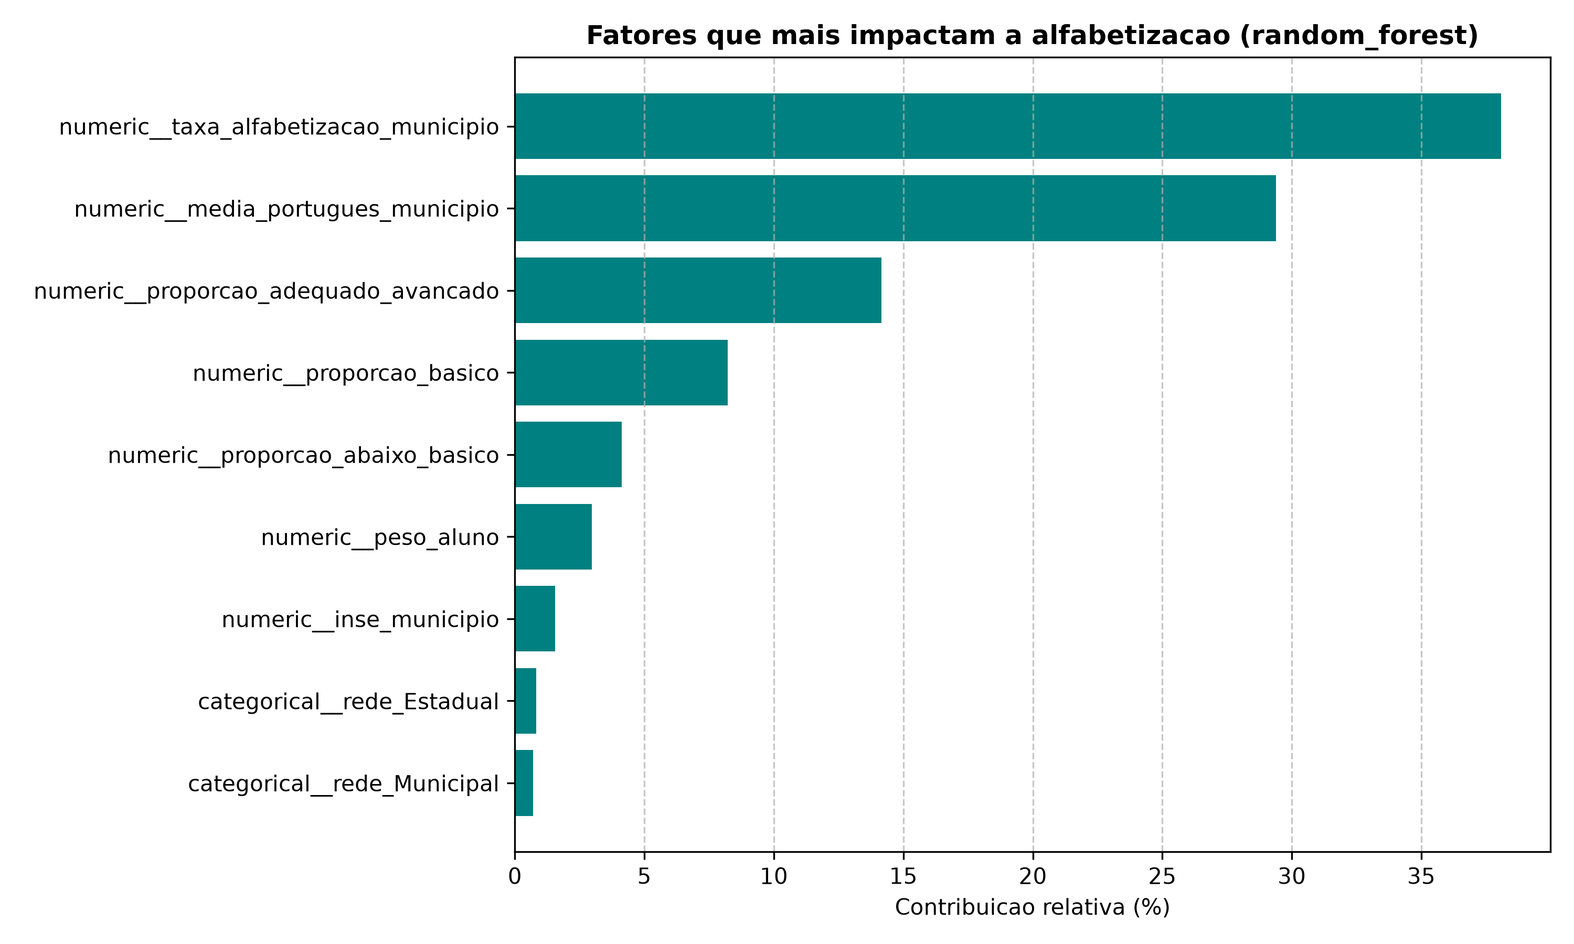
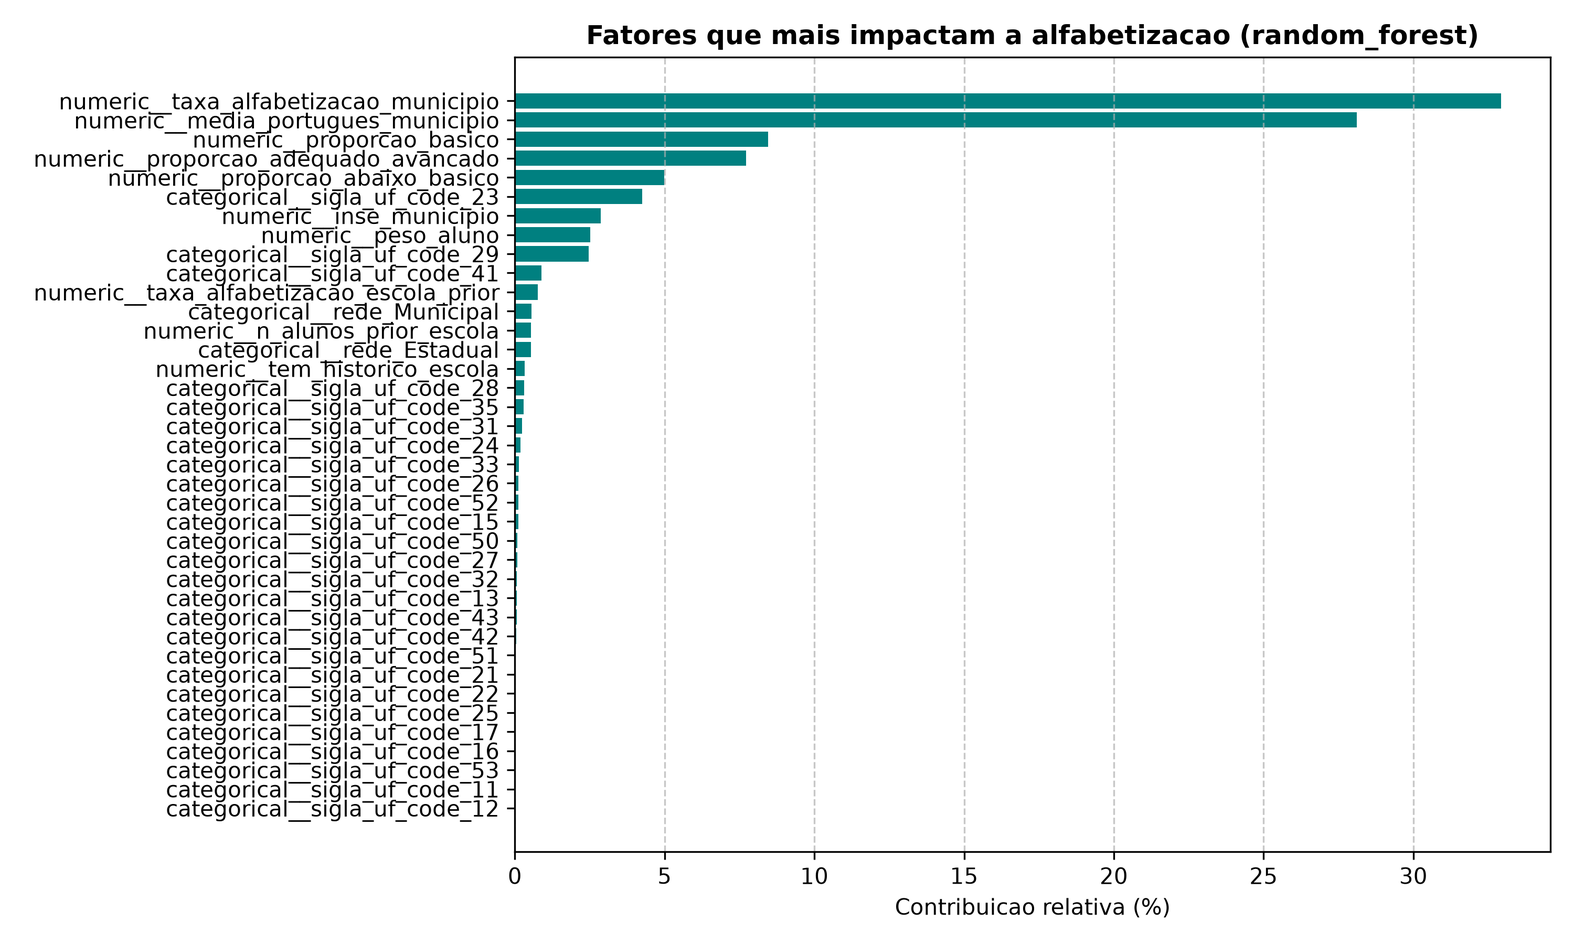
feat: add school/UF history features, fix year-blend leakage, drop undersampling
Gold: fixes a temporal leak where municipal alfabetizacao rates blended
2023+2024 into one average for every row (a 2023 row could see 2024
info); now matched to the row's own year. Adds prior-year school-level
literacy rate (from alunos_clean, never same-year/same-cohort) and a UF
code feature. Attempted school-level INSE too, but silver.alunos_clean
and silver.inse_escola_clean use non-overlapping id_escola namespaces
(confirmed 0/42802 matches after normalization) -- documented as a
follow-up requiring an external crosswalk.

Pipeline: replaces RandomUnderSampler (discarding ~600k majority-class
rows per fold) with class_weight/scale_pos_weight, keeping all training
data.

Net effect: ROC-AUC on the grouped-by-student test set improves ~1pp for
all three models (best: Random Forest 0.6770 -> 0.6866), recovering past
and slightly exceeding the original (leaky) v1 numbers with a clean split.

diff --git a/src/gold/build_gold_ml.py b/src/gold/build_gold_ml.py
@@ -22,12 +22,31 @@ CLUSTER_FIELDS = {
 
 # Query herdada de NaiaraMartins/1IAST-Tech-Challenge-Fase-3 (src/gold/build_gold_ml.py),
 # com id_aluno preservado para permitir split/CV agrupado por aluno (evita o mesmo
-# aluno aparecer em treino e teste quando ele tem mais de um caderno na mesma edicao).
+# aluno aparecer em treino e teste quando ele tem mais de um caderno na mesma edicao),
+# mais 3 melhorias sobre a v2:
+#
+# 1. municipio_same_year: a v2 fazia AVG(taxa_alfabetizacao) misturando 2023+2024
+#    pra toda linha (sem filtrar por ano) -- ou seja, uma linha de 2023 recebia
+#    informacao de 2024 (que ainda nao existia). Corrigido para casar pelo MESMO
+#    ano da linha.
+# 2. escola_prior_year: feature nova, no grao de ESCOLA (mais fino que municipio),
+#    calculada a partir do proprio alunos_clean agregado por id_escola+ano e casada
+#    com ano_alvo = ano+1 -- ou seja, so usa o desempenho da escola no ano ANTERIOR
+#    (nunca o mesmo ano/mesma turma), sem risco de vazamento. Cobertura: ~79% das
+#    linhas de 2024 tem historico de 2023; linhas de 2023 ficam NULL (nao ha 2022
+#    nos dados) -- sinalizado explicitamente por tem_historico_escola.
+#    (Tentamos ligar INSE por escola tambem, mas id_escola em inse_escola_clean
+#    e silver.alunos_clean nao compartilham o mesmo namespace de codigo -- 0 de
+#    42.802 escolas batem mesmo apos normalizar o tipo. Confirmado por query
+#    direta antes de descartar a ideia.)
+# 3. sigla_uf_code: os 2 primeiros digitos do id_municipio (codigo IBGE) --
+#    variavel territorial adicional, praticamente gratuita.
 ML_GOLD_TABLES = {
     ML_FEATURES_TABLE: f"""
-        WITH municipio_2serie AS (
+        WITH municipio_same_year AS (
             SELECT
                 SUBSTR(CAST(id_municipio AS STRING), 1, 6) AS id_municipio_6dig,
+                CAST(ano AS INT64) AS ano,
                 AVG(SAFE_CAST(REPLACE(CAST(taxa_alfabetizacao AS STRING), ',', '.') AS FLOAT64)) AS taxa_alfabetizacao_municipio,
                 AVG(SAFE_CAST(REPLACE(CAST(media_portugues AS STRING), ',', '.') AS FLOAT64)) AS media_portugues_municipio,
                 AVG(SAFE_CAST(REPLACE(CAST(proporcao_abaixo_basico AS STRING), ',', '.') AS FLOAT64)) AS proporcao_abaixo_basico,
@@ -35,7 +54,17 @@ ML_GOLD_TABLES = {
                 AVG(SAFE_CAST(REPLACE(CAST(proporcao_adequado_avancado AS STRING), ',', '.') AS FLOAT64)) AS proporcao_adequado_avancado
             FROM `{GCP_PROJECT_ID}.{BQ_DATASET_SILVER}.alfabetizacao_municipio_clean`
             WHERE TRIM(serie) = '2° ano do Ensino Fundamental'
-            GROUP BY 1
+            GROUP BY 1, 2
+        ),
+        escola_prior_year AS (
+            SELECT
+                TRIM(CAST(SAFE_CAST(id_escola AS INT64) AS STRING)) AS id_escola,
+                CAST(ano AS INT64) + 1 AS ano_alvo,
+                AVG(CASE WHEN alfabetizado = 'Sim' THEN 1.0 ELSE 0.0 END) AS taxa_alfabetizacao_escola_prior,
+                COUNT(*) AS n_alunos_prior_escola
+            FROM `{GCP_PROJECT_ID}.{BQ_DATASET_SILVER}.alunos_clean`
+            WHERE presenca = 'Presente'
+            GROUP BY 1, 2
         ),
         inse_municipio_agregado AS (
             SELECT
@@ -49,6 +78,7 @@ ML_GOLD_TABLES = {
             CAST(a.ano AS INT64) AS ano,
             a.id_aluno,
             SUBSTR(CAST(a.id_municipio AS STRING), 1, 6) AS id_municipio,
+            SUBSTR(CAST(a.id_municipio AS STRING), 1, 2) AS sigla_uf_code,
             TRIM(CAST(SAFE_CAST(a.id_escola AS INT64) AS STRING)) AS id_escola,
             TRIM(a.rede) AS rede,
             a.presenca,
@@ -61,15 +91,24 @@ ML_GOLD_TABLES = {
             m.media_portugues_municipio,
             m.proporcao_abaixo_basico,
             m.proporcao_basico,
-            m.proporcao_adequado_avancado
+            m.proporcao_adequado_avancado,
+
+            e.taxa_alfabetizacao_escola_prior,
+            e.n_alunos_prior_escola,
+            CASE WHEN e.id_escola IS NOT NULL THEN 1 ELSE 0 END AS tem_historico_escola
 
         FROM `{GCP_PROJECT_ID}.{BQ_DATASET_SILVER}.alunos_clean` a
 
         LEFT JOIN inse_municipio_agregado i
             ON SUBSTR(CAST(a.id_municipio AS STRING), 1, 6) = i.id_municipio_6dig
 
-        LEFT JOIN municipio_2serie m
+        LEFT JOIN municipio_same_year m
             ON SUBSTR(CAST(a.id_municipio AS STRING), 1, 6) = m.id_municipio_6dig
+            AND CAST(a.ano AS INT64) = m.ano
+
+        LEFT JOIN escola_prior_year e
+            ON TRIM(CAST(SAFE_CAST(a.id_escola AS INT64) AS STRING)) = e.id_escola
+            AND CAST(a.ano AS INT64) = e.ano_alvo
 
         WHERE a.id_municipio IS NOT NULL
           AND a.id_aluno IS NOT NULL

diff --git a/src/ml/tune.py b/src/ml/tune.py
@@ -23,7 +23,14 @@ REPORTS_DIR = Path("reports")
 MODEL_NAMES = ["logistic", "random_forest", "xgboost"]
 
 
-def _build_model(model_name, trial):
+def _scale_pos_weight(y) -> float:
+    """XGBoost nao tem class_weight -- scale_pos_weight = neg/pos e o equivalente."""
+    n_pos = int((y == 1).sum())
+    n_neg = int((y == 0).sum())
+    return n_neg / n_pos if n_pos else 1.0
+
+
+def _build_model(model_name, trial, y=None):
     if model_name == "logistic":
         return LogisticRegression(
             C=trial.suggest_float("C", 1e-3, 1e2, log=True),
@@ -50,6 +57,7 @@ def _build_model(model_name, trial):
             colsample_bytree=trial.suggest_float("colsample_bytree", 0.5, 1.0),
             min_child_weight=trial.suggest_int("min_child_weight", 1, 10),
             reg_lambda=trial.suggest_float("reg_lambda", 1e-3, 10.0, log=True),
+            scale_pos_weight=_scale_pos_weight(y) if y is not None else 1.0,
             random_state=config.RANDOM_STATE,
             n_jobs=-1,
             tree_method="hist",
@@ -67,7 +75,7 @@ def _cv_score(model, X, y, groups, n_splits, trial):
     cv = StratifiedGroupKFold(n_splits=n_splits, shuffle=True, random_state=config.RANDOM_STATE)
     scores = []
     for fold, (tr_idx, va_idx) in enumerate(cv.split(X, y, groups=groups)):
-        pipe = build_full_pipeline(model, apply_undersampling=True)
+        pipe = build_full_pipeline(model, apply_undersampling=False)
         pipe.fit(X.iloc[tr_idx], y.iloc[tr_idx])
         proba = pipe.predict_proba(X.iloc[va_idx])[:, 1]
         scores.append(roc_auc_score(y.iloc[va_idx], proba))
@@ -81,7 +89,7 @@ def _cv_score(model, X, y, groups, n_splits, trial):
 
 def make_objective(model_name, X, y, groups, n_splits):
     def objective(trial):
-        model = _build_model(model_name, trial)
+        model = _build_model(model_name, trial, y=y)
         return _cv_score(model, X, y, groups, n_splits, trial)
 
     return objective

diff --git a/src/ml/preprocessing.py b/src/ml/preprocessing.py
@@ -27,9 +27,12 @@ NUMERIC_FEATURES = [
     "proporcao_adequado_avancado",
     "inse_municipio",
     "peso_aluno",
+    "taxa_alfabetizacao_escola_prior",
+    "n_alunos_prior_escola",
+    "tem_historico_escola",
 ]
 
-CATEGORICAL_FEATURES = ["rede"]
+CATEGORICAL_FEATURES = ["rede", "sigla_uf_code"]
 
 FEATURE_COLUMNS = NUMERIC_FEATURES + CATEGORICAL_FEATURES
 
@@ -49,7 +52,11 @@ def load_data(client: bigquery.Client) -> pd.DataFrame:
             proporcao_adequado_avancado,
             inse_municipio,
             peso_aluno,
+            taxa_alfabetizacao_escola_prior,
+            n_alunos_prior_escola,
+            tem_historico_escola,
             rede,
+            sigla_uf_code,
             {TARGET_COLUMN}
         FROM `{config.GCP_PROJECT_ID}.{config.BQ_DATASET_GOLD}.{config.ML_FEATURES_TABLE}`
         WHERE rede IN ('Municipal', 'Estadual')
@@ -90,12 +97,18 @@ def build_preprocessor() -> ColumnTransformer:
     ])
 
 
-def build_full_pipeline(model, apply_undersampling: bool = True) -> ImbPipeline:
+def build_full_pipeline(model, apply_undersampling: bool = False) -> ImbPipeline:
     """
     Um unico objeto sklearn/imblearn Pipeline com pre-processamento +
     balanceamento + estimador -- atende a exigencia do PDF de "integracao
     do pre-processamento diretamente ao modelo" (na v1 do repo, o
     ColumnTransformer era ajustado fora do Pipeline do modelo).
+
+    apply_undersampling=False por padrao: o desbalanceamento (~59%/41%) e
+    tratado via class_weight="balanced" (Logistic/RandomForest) ou
+    scale_pos_weight (XGBoost) no proprio modelo, sem descartar ~600k
+    linhas da classe majoritaria por fold como o RandomUnderSampler da v1
+    fazia.
     """
     steps = [("preprocessor", build_preprocessor())]
     if apply_undersampling:

diff --git a/src/ml/train.py b/src/ml/train.py
@@ -46,7 +46,13 @@ def load_best_params() -> dict:
     return {}
 
 
-def build_model(model_name: str, params: dict):
+def _scale_pos_weight(y) -> float:
+    n_pos = int((y == 1).sum())
+    n_neg = int((y == 0).sum())
+    return n_neg / n_pos if n_pos else 1.0
+
+
+def build_model(model_name: str, params: dict, y_train=None):
     if model_name == "logistic":
         return LogisticRegression(
             max_iter=1000, class_weight="balanced",
@@ -58,6 +64,7 @@ def build_model(model_name: str, params: dict):
         )
     if model_name == "xgboost":
         return XGBClassifier(
+            scale_pos_weight=_scale_pos_weight(y_train) if y_train is not None else 1.0,
             random_state=config.RANDOM_STATE, n_jobs=-1,
             tree_method="hist", eval_metric="auc", **params,
         )
@@ -103,10 +110,11 @@ def main() -> None:
         params = best.get(model_name, {}).get("best_params", DEFAULT_PARAMS[model_name])
         log.info("Treinando %s com params: %s", model_name, params)
 
-        model = build_model(model_name, params)
-        # Pipeline unico (preprocessor + undersampler + modelo) -- e o
-        # artefato salvo, nao mais modelo/preprocessor separados.
-        pipeline = build_full_pipeline(model, apply_undersampling=True)
+        model = build_model(model_name, params, y_train=y_train)
+        # Pipeline unico (preprocessor + modelo) -- e o artefato salvo,
+        # nao mais modelo/preprocessor separados. Balanceamento via
+        # class_weight/scale_pos_weight, sem descartar dados (ver preprocessing.py).
+        pipeline = build_full_pipeline(model, apply_undersampling=False)
         pipeline.fit(X_train, y_train)
 
         metrics = evaluate_model(pipeline, model_name, X_test, y_test)

diff --git a/src/ml/exploratory_analysis.py b/src/ml/exploratory_analysis.py
@@ -22,6 +22,9 @@ NUMERIC_FEATURES = [
     "proporcao_adequado_avancado",
     "inse_municipio",
     "peso_aluno",
+    "taxa_alfabetizacao_escola_prior",
+    "n_alunos_prior_escola",
+    "tem_historico_escola",
 ]
 
 
@@ -35,7 +38,11 @@ def load_gold_data(client: bigquery.Client) -> pd.DataFrame:
             proporcao_adequado_avancado,
             inse_municipio,
             peso_aluno,
+            taxa_alfabetizacao_escola_prior,
+            n_alunos_prior_escola,
+            tem_historico_escola,
             rede,
+            sigla_uf_code,
             alfabetizado
         FROM `{config.GCP_PROJECT_ID}.{config.BQ_DATASET_GOLD}.{config.ML_FEATURES_TABLE}`
         WHERE rede IN ('Municipal', 'Estadual')

diff --git a/README.md b/README.md
@@ -10,8 +10,12 @@ Este repositorio e um fork de [NaiaraMartins/1IAST-Tech-Challenge-Fase-3](https:
 
 - Otimizacao de hiperparametros com Optuna (ausente na v1 -- os 3 modelos usavam parametros fixos).
 - Split e cross-validation agrupados por id_aluno em vez de linha aleatoria -- ver secao 4.
-- Pipeline sklearn unico (preprocessor + undersampler + modelo em um so objeto), em vez de preprocessor e modelo salvos separados.
-- Uma tabela Gold propria, gold.ml_features_alunos_v2 (mesma logica de join da v1, com id_aluno preservado), para nao sobrescrever a tabela original no mesmo projeto GCP compartilhado.
+- Pipeline sklearn unico (preprocessor + modelo em um so objeto), em vez de preprocessor e modelo salvos separados.
+- Correcao de um vazamento temporal: a v1 calculava a taxa de alfabetizacao do municipio misturando 2023+2024 (media unica) para toda linha, entao uma linha de 2023 recebia informacao de 2024, que ainda nao existia. Corrigido para casar pelo mesmo ano da linha.
+- Feature nova no grao de escola (mais fino que municipio): taxa de alfabetizacao da propria escola no ano anterior, calculada a partir de alunos_clean, sem risco de vazamento (nunca usa o mesmo ano/mesma turma).
+- Feature nova: codigo de UF (2 primeiros digitos do id_municipio).
+- Troca de RandomUnderSampler por class_weight/scale_pos_weight -- a v1 descartava boa parte da classe majoritaria a cada fold; aqui o balanceamento e feito sem jogar dado fora.
+- Uma tabela Gold propria, gold.ml_features_alunos_v2, para nao sobrescrever a tabela original no mesmo projeto GCP compartilhado.
 
 ## 3. Estrutura do Projeto
 
@@ -40,8 +44,10 @@ src/
 
 - Filtro de escopo: apenas redes publicas (Municipal e Estadual), como na v1.
 - proficiencia (nota SAEB) excluida das features: e a mesma variavel que define o rotulo alfabetizado (corte oficial de 743 pontos), confirmado via query direta no BigQuery -- alfabetizado = 'Sim' equivale a proficiencia >= 743 de forma exata nos dados.
-- Split e CV agrupados por id_aluno (GroupShuffleSplit / StratifiedGroupKFold): descobrimos, consultando gold.ml_features_alunos_v2, que 51,2% dos alunos aparecem em 2 linhas (edicoes 2023 e 2024). Um train_test_split aleatorio por linha -- usado na v1 -- deixa o mesmo aluno em treino e teste ao mesmo tempo. Corrigido aqui: nenhum aluno do treino aparece no teste (verificado programaticamente a cada execucao de prepare_data()).
-- Isolamento dos transformadores: SimpleImputer/StandardScaler/OneHotEncoder e RandomUnderSampler vivem dentro do mesmo Pipeline do modelo, com fit restrito a cada fold/treino -- nunca veem o conjunto de teste.
+- Split e CV agrupados por id_aluno (GroupShuffleSplit / StratifiedGroupKFold): descobrimos, consultando a gold, que 51,2% dos alunos aparecem em 2 linhas (edicoes 2023 e 2024). Um train_test_split aleatorio por linha -- usado na v1 -- deixa o mesmo aluno em treino e teste ao mesmo tempo. Corrigido aqui: nenhum aluno do treino aparece no teste (verificado programaticamente a cada execucao de prepare_data()).
+- Taxa/media/proporcoes do municipio casadas pelo MESMO ano da linha (nao mais uma media borrada entre 2023 e 2024 -- ver secao 2).
+- Taxa de alfabetizacao da escola usa APENAS o ano anterior (ano-1): nunca inclui o proprio aluno nem sua turma. Cobertura: ~79% das linhas de 2024 tem historico de 2023; linhas de 2023 ficam sem essa feature (nao ha 2022 nos dados) -- sinalizado pela flag tem_historico_escola em vez de fabricar um valor.
+- Isolamento dos transformadores: SimpleImputer/StandardScaler/OneHotEncoder vivem dentro do mesmo Pipeline do modelo, com fit restrito a cada fold/treino -- nunca veem o conjunto de teste.
 
 ## 5. Otimizacao de Hiperparametros (Optuna)
 
@@ -51,29 +57,29 @@ A busca roda em uma subamostra de 150.000 linhas (em vez dos ~2,68M de treino): 
 
 | Modelo | ROC-AUC (CV, subamostra) | Melhores parametros |
 |---|---|---|
-| Logistic | 0.6701 | C=13.20 |
-| Random Forest | 0.6732 | n_estimators=299, max_depth=9, min_samples_leaf=6, max_features=sqrt |
-| XGBoost | 0.6737 | n_estimators=489, max_depth=6, learning_rate=0.0101, subsample=0.79, colsample_bytree=0.77, min_child_weight=4, reg_lambda=2.55 |
+| Logistic | 0.6819 | C=0.0060 |
+| Random Forest | 0.6840 | n_estimators=176, max_depth=11, min_samples_leaf=4, max_features=sqrt |
+| XGBoost | 0.6843 | n_estimators=489, max_depth=6, learning_rate=0.0101, subsample=0.79, colsample_bytree=0.77, min_child_weight=4, reg_lambda=2.55 |
 
 ## 6. Resultados Finais (teste agrupado por aluno, ~670.817 registros)
 
 | Modelo | Accuracy | F1-Macro | Recall (Nao Alfab.) | Recall (Alfabetizado) | ROC-AUC |
 |---|---|---|---|---|---|
-| Logistic | 61,81% | 0.6138 | 62,75% | 61,16% | 0.6712 |
-| Random Forest (campeao) | 62,17% | 0.6181 | 64,21% | 60,76% | 0.6770 |
-| XGBoost | 62,13% | 0.6177 | 64,10% | 60,77% | 0.6767 |
+| Logistic | 62,63% | 0.6220 | 63,65% | 61,92% | 0.6820 |
+| Random Forest (campeao) | 62,68% | 0.6235 | 65,15% | 60,98% | 0.6866 |
+| XGBoost | 62,67% | 0.6235 | 65,41% | 60,77% | 0.6860 |
 
-O Random Forest venceu por margem minima sobre o XGBoost (+0,0003 ROC-AUC) -- estatisticamente, os tres modelos convergem para o mesmo teto de sinal disponivel nos dados (ver secao 9).
+Random Forest venceu por margem minima sobre o XGBoost (+0,0006 ROC-AUC) -- de novo, os tres modelos convergem para o mesmo teto de sinal disponivel (ver secao 9).
 
-### Comparacao metodologica com a v1 (Naiara)
+### Evolucao do pipeline (3 versoes, mesmo teste agrupado por aluno)
 
-| Modelo | ROC-AUC v1 (split por linha) | ROC-AUC aqui (split por aluno) | Diferenca |
-|---|---|---|---|
-| Logistic | 0.6723 | 0.6712 | -0.0011 |
-| Random Forest | 0.6834 | 0.6770 | -0.0064 |
-| XGBoost | 0.6833 | 0.6767 | -0.0066 |
+| Modelo | v1 Naiara (split por linha, sem tuning) | Fork -- so leakage fix (Optuna + split por aluno) | Fork -- + features de escola/UF/ano | Ganho total |
+|---|---|---|---|---|
+| Logistic | 0.6723 | 0.6712 | 0.6820 | +0.0097 |
+| Random Forest | 0.6834 | 0.6770 | 0.6866 | +0.0032 |
+| XGBoost | 0.6833 | 0.6767 | 0.6860 | +0.0027 |
 
-A v1 tinha ROC-AUC mais alto -- mas isso e justamente o efeito esperado do vazamento descrito na secao 4: o split aleatorio por linha deixa o mesmo aluno (repetido em 2023/2024) influenciar treino e teste ao mesmo tempo, inflando a metrica de forma mais visivel nos modelos de arvore (mais flexiveis para explorar a quase-duplicata) do que na regressao logistica (mais regularizada). O numero mais baixo aqui e o mais confiavel para generalizacao real.
+A primeira correcao (split agrupado) reduziu o ROC-AUC porque removeu o vazamento entre treino/teste da v1 -- numero mais baixo, porem confiavel. A segunda rodada (features de escola/UF + fix do blend de anos) recuperou e superou o numero original da v1, desta vez sem vazamento. Accuracy tambem subiu de ~62,2% (fork inicial) para ~62,7%.
 
 ## 7. Interpretabilidade (Random Forest, modelo campeao)
 
@@ -81,21 +87,23 @@ A v1 tinha ROC-AUC mais alto -- mas isso e justamente o efeito esperado do vazam
 
 | Variavel | Contribuicao (%) |
 |---|---|
-| taxa_alfabetizacao_municipio | 38,08% |
-| media_portugues_municipio | 29,38% |
-| proporcao_adequado_avancado | 14,15% |
-| proporcao_basico | 8,21% |
-| proporcao_abaixo_basico | 4,13% |
-| peso_aluno | 2,97% |
-| inse_municipio | 1,55% |
-| rede_Estadual | 0,82% |
-| rede_Municipal | 0,71% |
+| taxa_alfabetizacao_municipio | 32,93% |
+| media_portugues_municipio | 28,12% |
+| proporcao_basico | 8,46% |
+| proporcao_adequado_avancado | 7,72% |
+| proporcao_abaixo_basico | 4,99% |
+| UF (Santa Catarina) | 4,25% |
+| inse_municipio | 2,86% |
+| peso_aluno | 2,52% |
+| UF (Bahia) | 2,47% |
+| taxa_alfabetizacao_escola_prior | 0,77% |
+| rede / n_alunos_prior_escola / tem_historico_escola / demais UFs | restante |
 
-O historico municipal de alfabetizacao (taxa_alfabetizacao_municipio + media_portugues_municipio, juntas ~67%) domina a predicao -- esperado, ja que sao as variaveis mais diretamente correlacionadas ao desfecho no nivel agregado disponivel.
+O historico municipal de alfabetizacao ainda domina (~61% somado), mas agora responde por uma fatia menor do total (era ~67% na v2 sem as novas features) -- UF e as proporcoes por nivel ganharam peso relativo. Curiosamente, a taxa historica da propria escola teve contribuicao individual pequena (0,77%) apesar de ter ajudado o ROC-AUC geral -- sinal de que o efeito dela e mais forte em interacao com outras variaveis do que isoladamente (algo que uma arvore de profundidade limitada nao captura bem sozinha).
 
 ### SHAP
 
-reports/images/shap_summary_random_forest.png (impacto direcional) e shap_waterfall_random_forest.png (explicacao individual) confirmam a mesma hierarquia: taxa e media municipais deslocam a probabilidade de alfabetizacao positivamente; INSE tem efeito na mesma direcao, porem secundario.
+reports/images/shap_summary_random_forest.png (impacto direcional) e shap_waterfall_random_forest.png (explicacao individual) confirmam a mesma hierarquia: taxa e media municipais deslocam a probabilidade de alfabetizacao positivamente; INSE e UF tem efeito secundario, porem visivel.
 
 ## 8. Aplicacao Estrategica: Threshold Tuning para Busca Ativa
 
@@ -103,17 +111,17 @@ Em politicas de Busca Ativa, o custo de um Falso Negativo (nao identificar uma c
 
 | Threshold | Accuracy | Recall (risco) | Precision (risco) |
 |---|---|---|---|
-| 0,50 (padrao) | 62,17% | 64,21% | 53,06% |
-| 0,55 | 59,38% | 75,68% | 50,19% |
-| 0,60 | 55,29% | 86,32% | 47,41% |
-| 0,65 | 51,75% | 92,52% | 45,54% |
+| 0,50 (padrao) | 62,68% | 65,15% | 53,56% |
+| 0,55 | 59,94% | 77,02% | 50,64% |
+| 0,60 | 55,81% | 87,31% | 47,76% |
+| 0,65 | 52,68% | 92,37% | 46,05% |
 
-Com threshold 0,55 (mesma regra de negocio adotada na v1), o recall de alunos em risco sobe de 64,2% para 75,7% -- um ganho de ~11,5pp de cobertura, ao custo de mais falsos positivos (triagem mais ampla, adequada quando o custo de reforco extra e menor que o de nao intervir).
+Com threshold 0,55 (mesma regra de negocio adotada na v1), o recall de alunos em risco sobe de 65,2% para 77,0% -- um ganho de ~11,9pp de cobertura, ao custo de mais falsos positivos.
 
 ## 9. Limitacoes Reais e Eticas
 
-1. Grao dos dados: a base publica do INEP (Base dos Dados) so libera microdado individual (id_aluno) sem variaveis socioeconomicas no mesmo grao -- o contexto territorial/socioeconomico (inse_municipio, taxas municipais) e agregado por municipio. Isso impoe um teto de sinal: ROC-AUC ~0,67-0,68 e accuracy ~62% sao consistentes nos tres modelos e nas duas versoes do pipeline, sugerindo que o limite e do dado disponivel, nao do modelo ou do tuning.
-2. Correlacao ecologica: usar taxas municipais como preditor de um desfecho individual carrega o risco classico de inferencia ecologica -- o modelo aprende "o municipio deste aluno historicamente vai bem/mal", nao necessariamente fatores causais sobre o aluno especifico.
+1. Grao dos dados: mesmo apos adicionar historico de escola e UF, a maior parte do sinal ainda vem de agregados territoriais (municipio) -- tentamos ligar INSE no grao de escola diretamente, mas o id_escola de silver.inse_escola_clean nao compartilha o mesmo namespace de codigo do id_escola em silver.alunos_clean (0 de 42.802 escolas batem apos normalizar), entao esse enriquecimento ficou fora de alcance com os dados atuais. O teto de sinal (ROC-AUC ~0,68-0,69, accuracy ~62-63%) e consistente nas 3 versoes do pipeline, sugerindo que o limite e estrutural, nao de modelo ou tuning.
+2. Correlacao ecologica: usar taxas municipais como preditor de um desfecho individual carrega o risco classico de inferencia ecologica.
 3. Uso exclusivo para suporte: o modelo deve ser usado para alerta precoce e triagem distributiva de recursos, nunca para fins punitivos ou discriminatorios.
 
 ## 10. Aplicacao Pratica para Politicas Publicas
@@ -122,10 +130,11 @@ O modelo, com o threshold ajustado (0,55-0,60), pode alimentar paineis de Busca 
 
 ## 11. Possiveis Evolucoes Futuras
 
-- Enriquecer com fontes externas no grao municipio (Censo Escolar, PNAD, Atlas do Desenvolvimento Humano) para reduzir a limitacao da secao 9.2.
+- Resolver a divergencia de codigo de escola entre silver.alunos_clean e silver.inse_escola_clean (provavelmente exige uma tabela de-para externa, ex. Censo Escolar/INEP) para habilitar INSE no grao de escola.
+- Enriquecer com fontes externas no grao municipio (Censo Escolar, PNAD, Atlas do Desenvolvimento Humano).
 - Rodar a busca Optuna na base de treino completa (nao a subamostra) em ambiente com mais capacidade computacional, e aumentar OPTUNA_N_TRIALS.
 - Testar StratifiedGroupKFold por id_escola (alem de id_aluno) para avaliar generalizacao entre escolas nao vistas.
-- Modelo de serie temporal (2023 -> 2024) para prever evolucao ano a ano por municipio.
+- Modelo de serie temporal (2023 -> 2024) para prever evolucao ano a ano por municipio, agora que ja existe a infraestrutura de features "ano-1".
 
 ## 12. Como Executar
 
